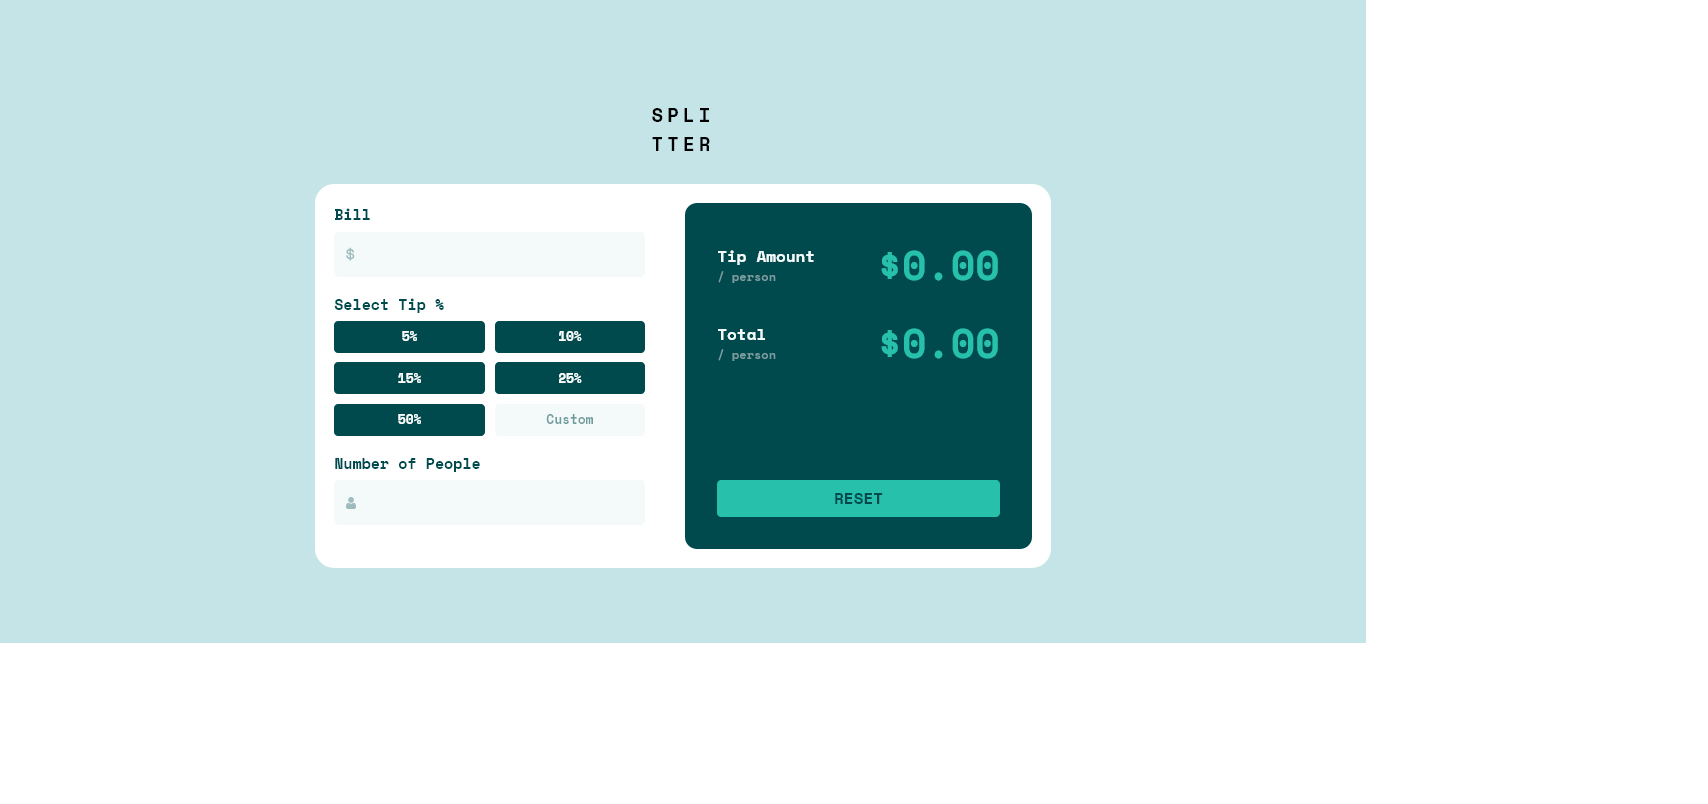
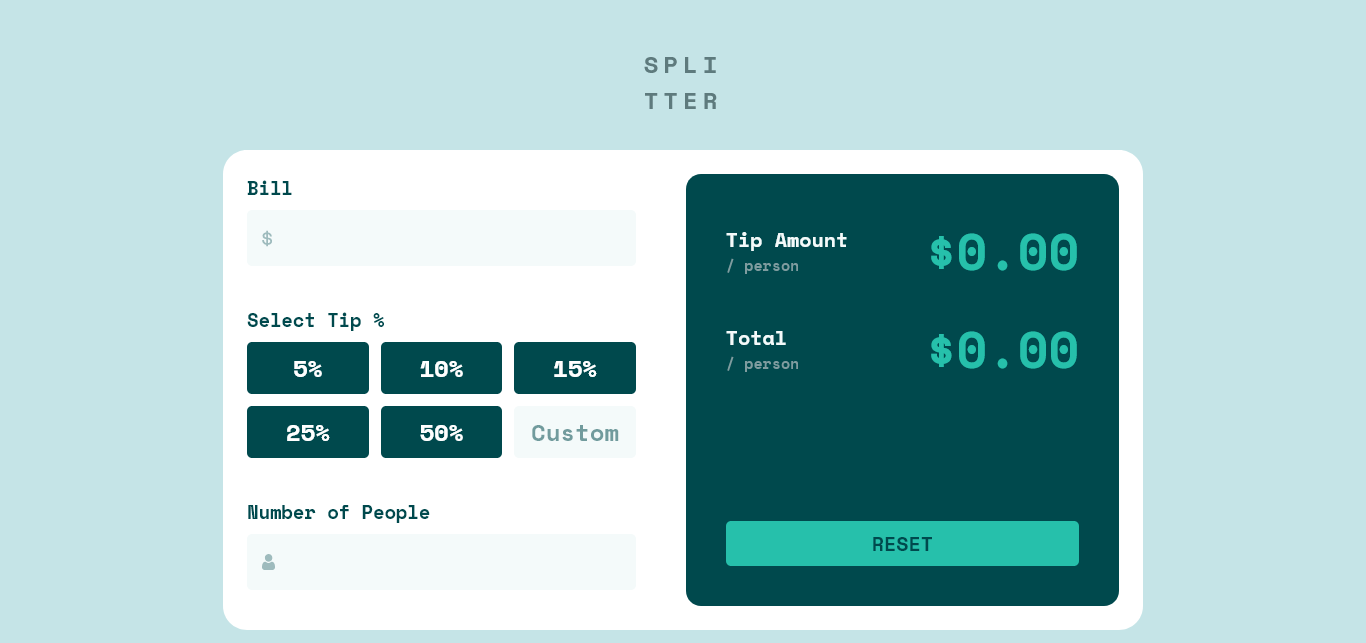
update screenshot and fix some wrong style

diff --git a/css/style.css b/css/style.css
@@ -183,8 +183,8 @@ body {
 
 .select-tip .list .item {
   -webkit-box-flex: 1;
-      -ms-flex: 1 1 25%;
-          flex: 1 1 25%;
+      -ms-flex: 1 1 40%;
+          flex: 1 1 40%;
   text-align: center;
   background: var(--dark-cyan);
   color: var(--white);
@@ -192,12 +192,14 @@ body {
   cursor: pointer;
   font-weight: bold;
   border-radius: 5px;
-  font-size: 16px;
+  font-size: 24px;
 }
 
 @media (min-width: 1024px) {
   .select-tip .list .item {
-    font-size: 24px;
+    -webkit-box-flex: 1;
+        -ms-flex: 1 1 25%;
+            flex: 1 1 25%;
   }
 }
 

diff --git a/scss/style.scss b/scss/style.scss
@@ -153,7 +153,7 @@ body {
     gap: 12px;
 
     .item {
-      flex: 1 1 25%;
+      flex: 1 1 40%;
       text-align: center;
       background: var(--dark-cyan);
       color: var(--white);
@@ -161,10 +161,10 @@ body {
       cursor: pointer;
       font-weight: bold;
       border-radius: 5px;
-      font-size: 16px;
+      font-size: 24px;
 
       @media (min-width: 1024px) {
-        font-size: 24px;
+        flex: 1 1 25%;
       }
 
       &.selected {
